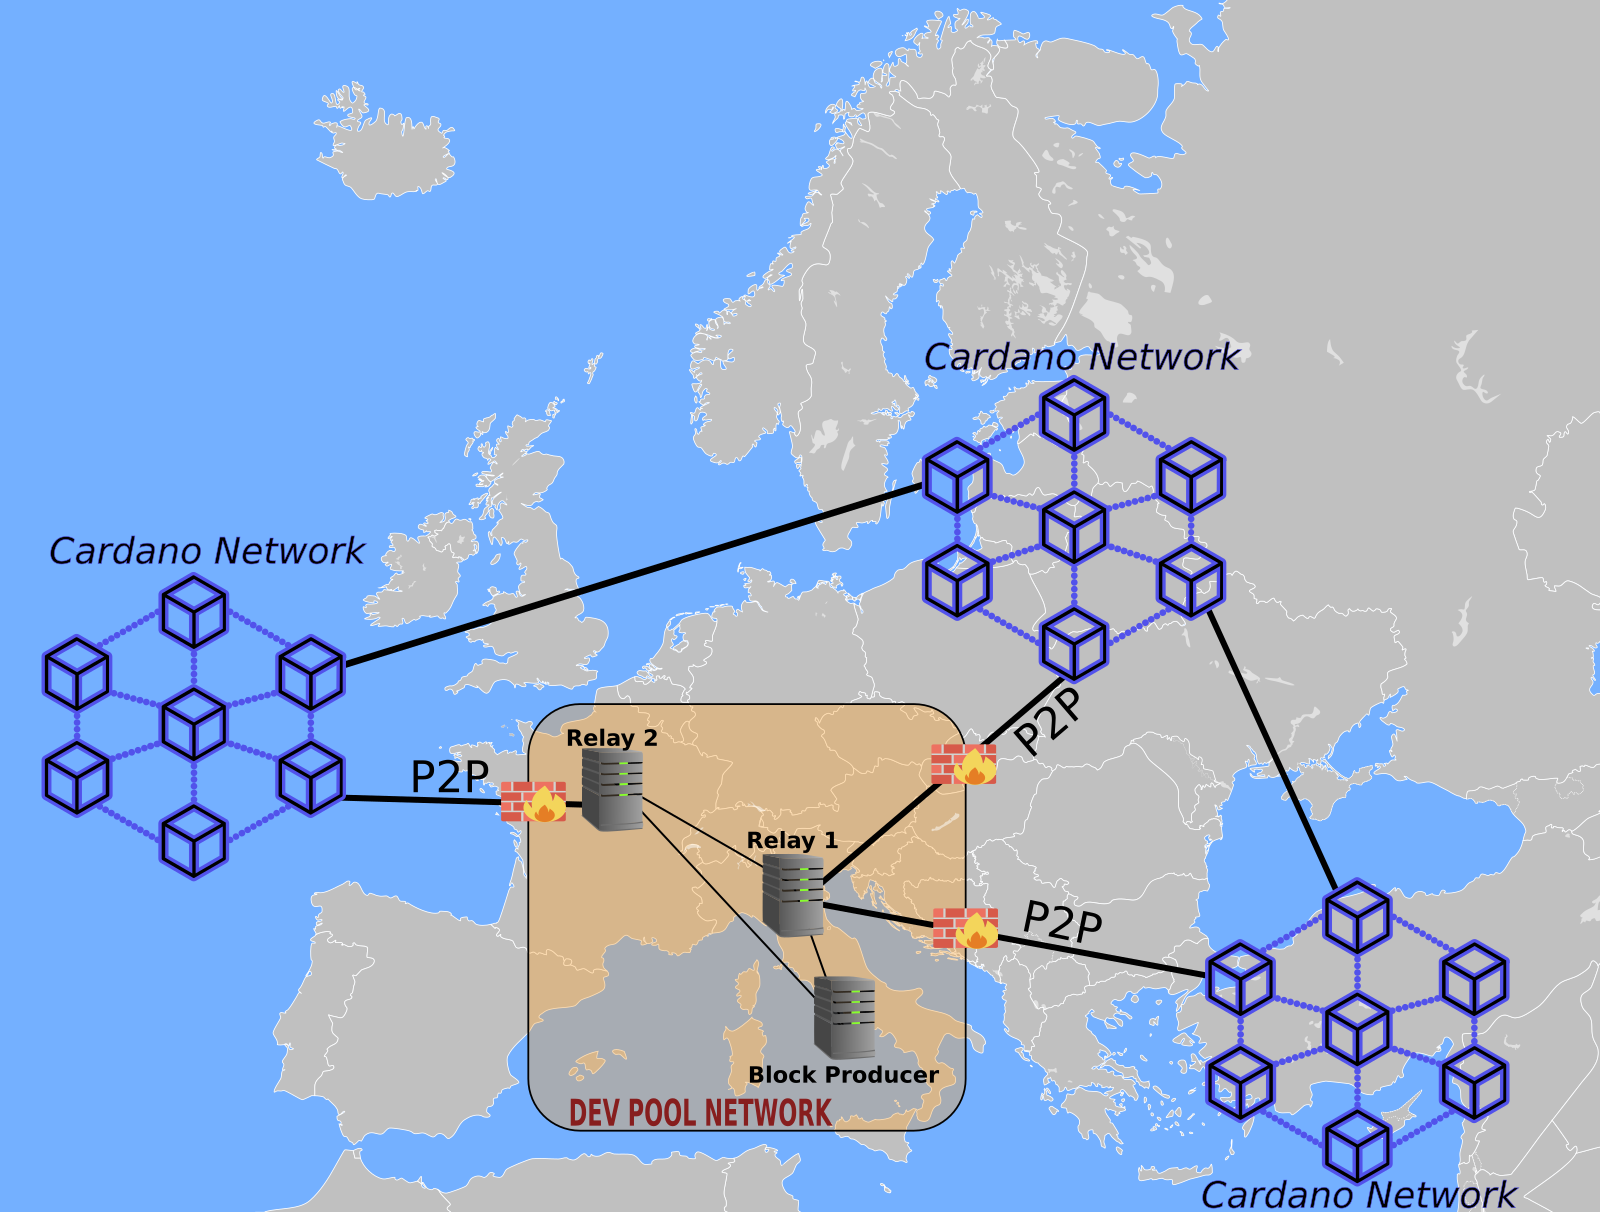
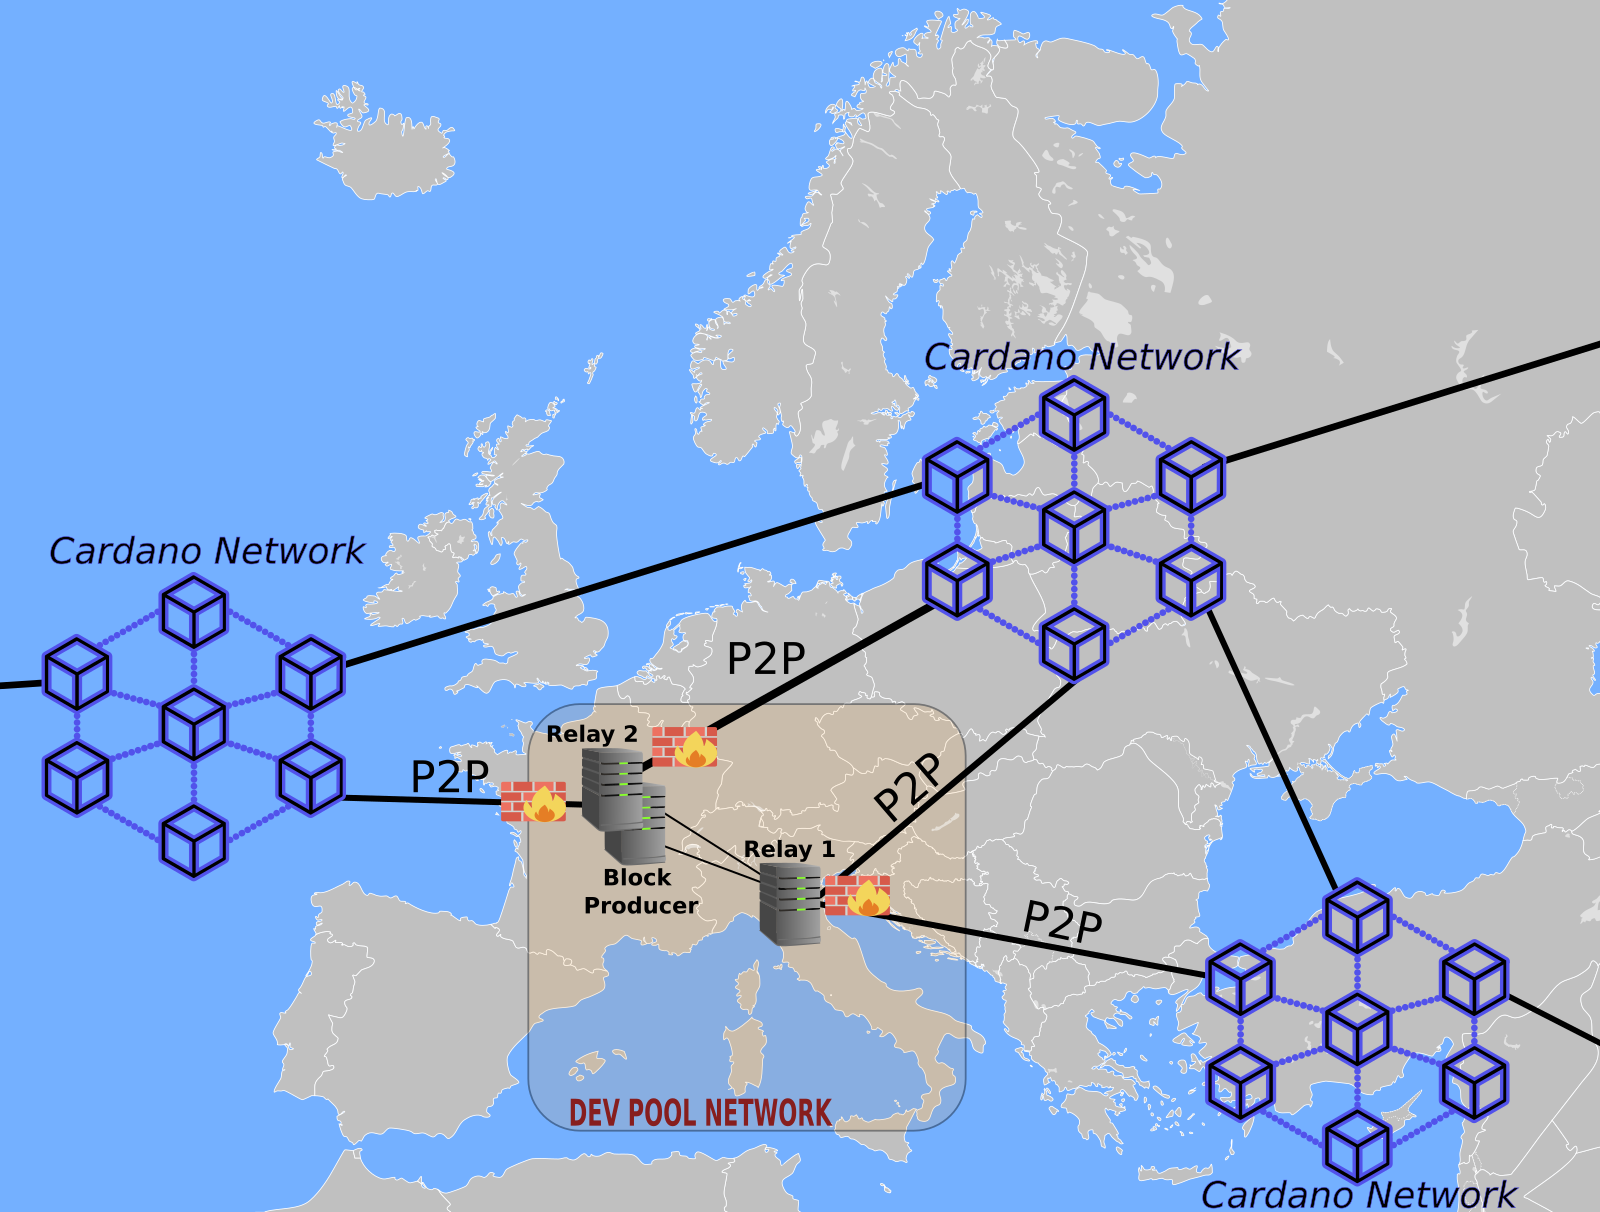
Added topology map

diff --git a/index.html b/index.html
@@ -170,13 +170,16 @@
                 RAM and NVMe Solid State Disks</p>
             <br/>
             <h4>Topology:</h4>
-            <p>The <i>DEV</i> stake pool is composed by one relay server, and one block-producer server.
-                Once the number of delegators will grow and blocks will be minted in a reliable way, a second and
-                eventually third relay node will be added.
+            <p>The <i>DEV</i> stake pool is composed by two relay servers, and one block-producer server.
+                One relay and the block producer run on bare metal machines, while the second relay runs on a high specs VPS, hosted in Italy. <br/>
+            </p>
+            <img src="images/dev_pool_network.png" width="680em" alt="network topology"/>
+            <p>The following map shows the DEV stake pool topology.</p>
+            <p>
                 On top of that, in order to maximise the security, a locally stored and always offline machine is used,
                 paired with a
-                <a href="https://shop.ledger.com/products/ledger-nano-s" target="_blank" title="Ledger Nano S">Ledger
-                    Nano S</a> hardware wallet.
+                <a href="https://shop.ledger.com/pages/ledger-nano-s-plus" target="_blank" title="Ledger Nano S Plus">Ledger
+                    Nano S Plus</a> hardware wallet.
             </p>
             <!-- Heading -->
             <h3>You can safely stake your ada with <i>DEV</i> stake pool!</h3>
